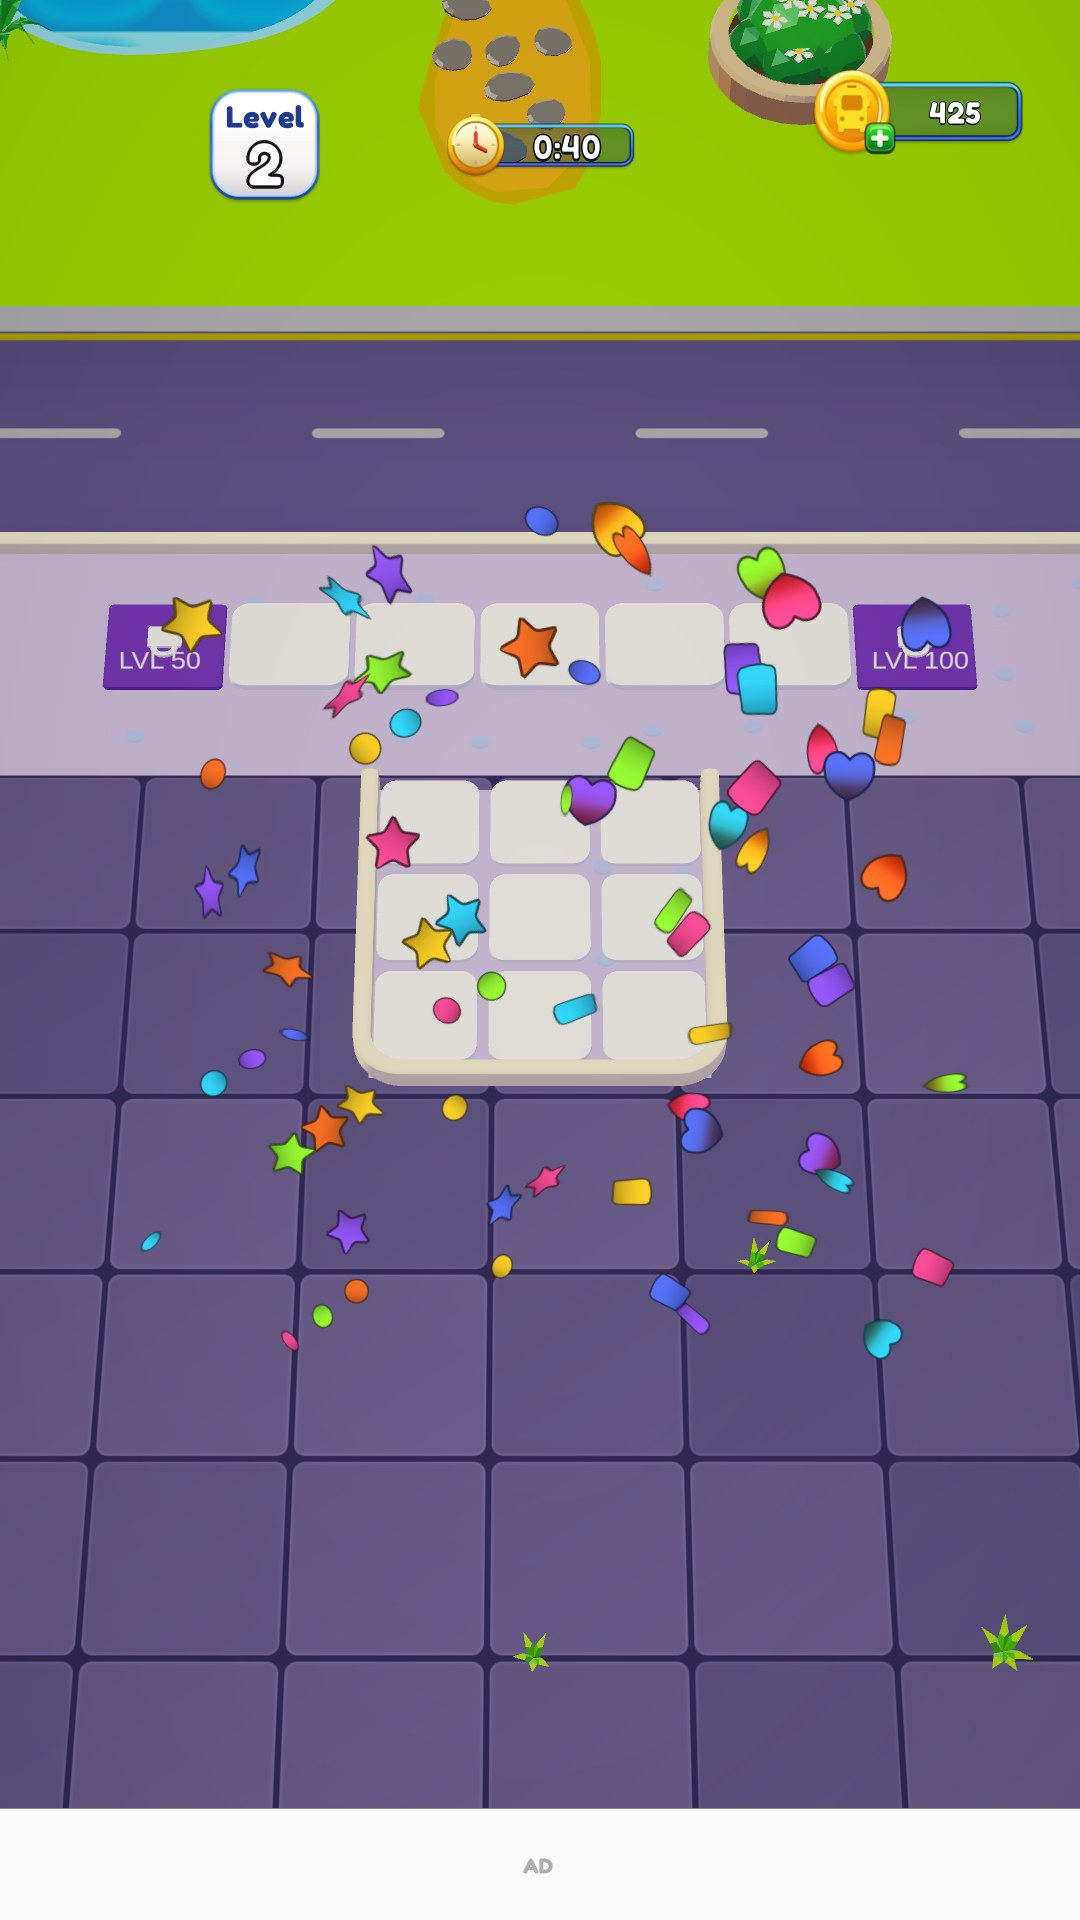
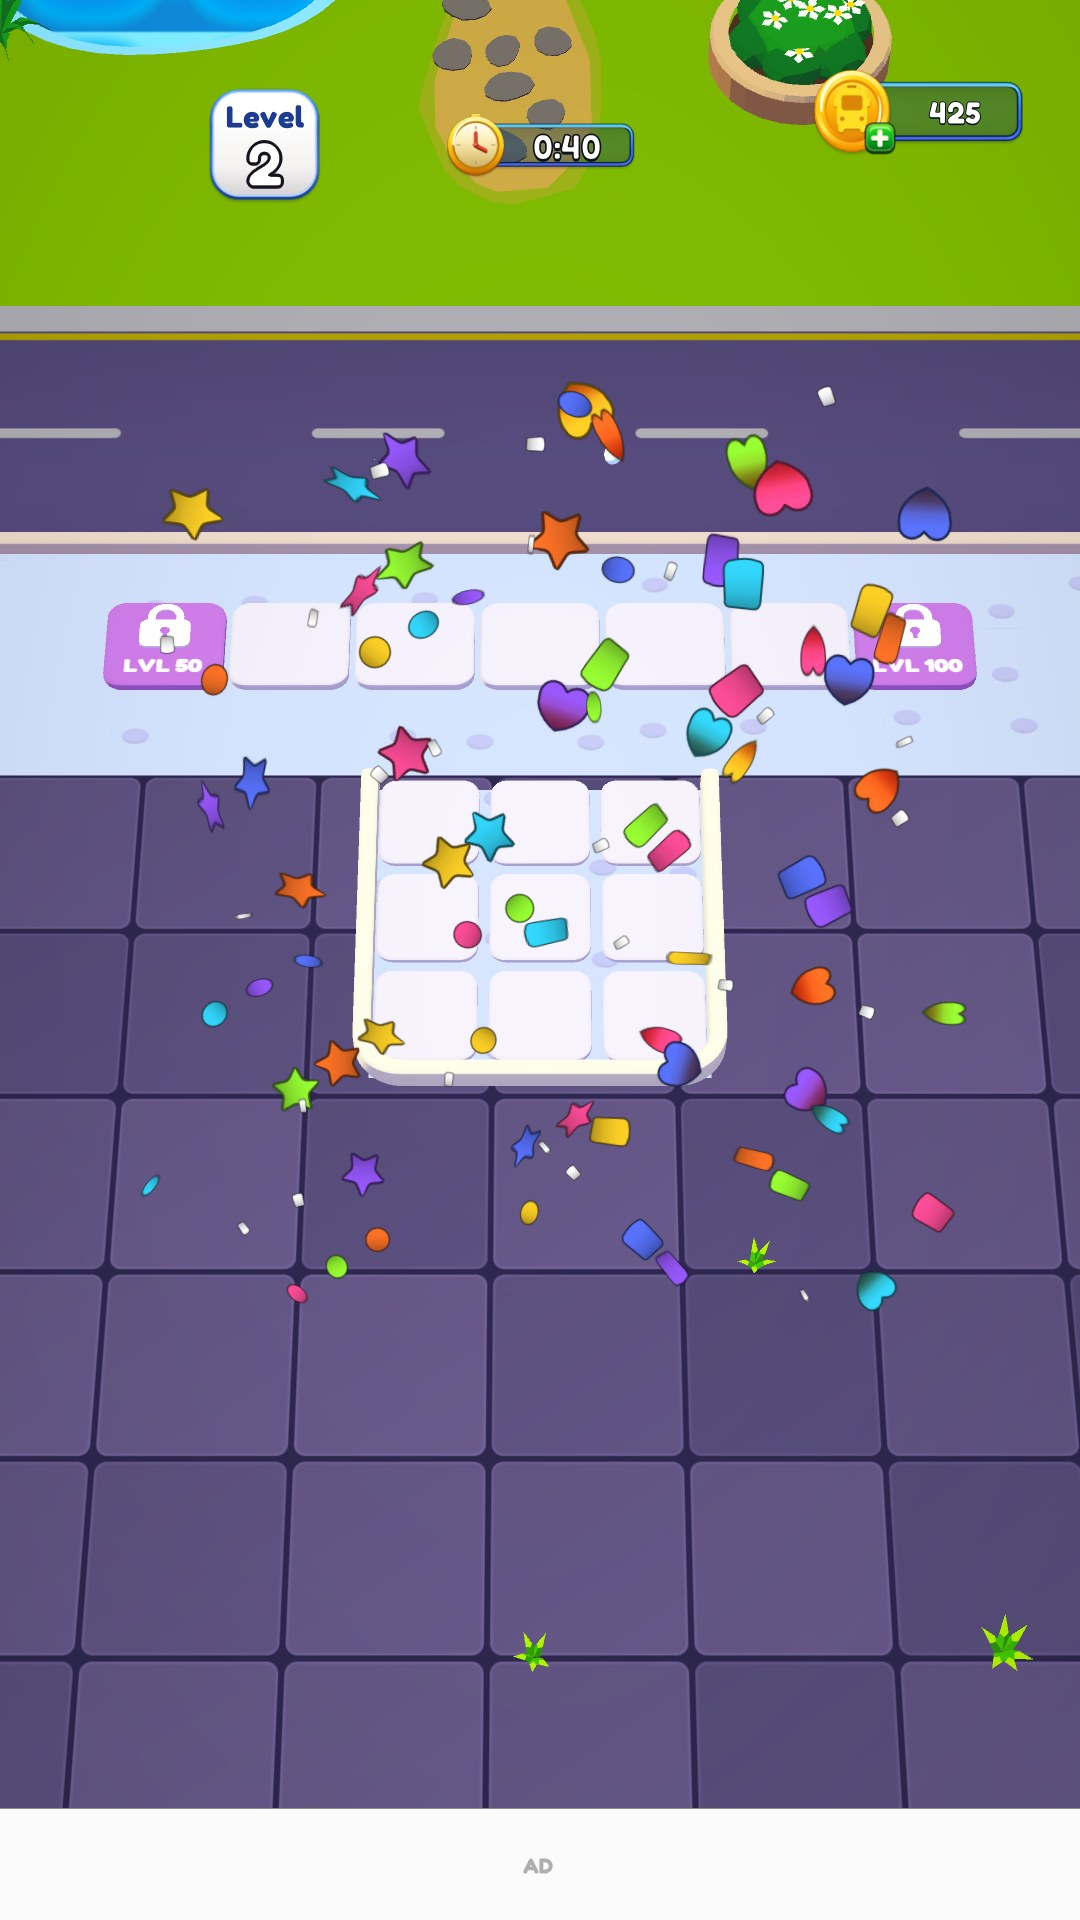
W3: konfeti referans zamanlaması (1 sn, mor katmanla kararır), hızlı patlama, beyaz kağıt kırıntıları

diff --git a/Assets/_BusJam/Scripts/UI/ToolkitGameUI.Results.cs b/Assets/_BusJam/Scripts/UI/ToolkitGameUI.Results.cs
@@ -25,7 +25,8 @@ namespace BusJam.UI
         private VisualElement buttonGlow, floatingHeart, failEffects, failHudHeart, resultBoosters;
         private Label rewardLabel, resultCoins, failReason, failLevel, noLivesCount, noLivesCountdown, failLives, failCountdown;
         private Button continueButton, retryButton, failClose;
-        private readonly VisualElement[] confetti = new VisualElement[72];
+        private readonly VisualElement[] confetti = new VisualElement[96];
+        private const int ColoredConfetti = 72; // the rest are small white paper flecks
         private readonly VisualElement[] twinkles = new VisualElement[8];
         private readonly VisualElement[] pileGlints = new VisualElement[4];
         private readonly VisualElement[] flyingCoins = new VisualElement[FlyingCoinCount];
@@ -74,8 +75,8 @@ namespace BusJam.UI
             string[] shapes = { "confetti-star", "confetti-heart", "confetti-disc", "confetti-piece" };
             for (int i = 0; i < confetti.Length; i++)
             {
-                confetti[i] = Effect(effects, shapes[i % shapes.Length]);
-                confetti[i].style.unityBackgroundImageTintColor = ConfettiColor(i);
+                confetti[i] = Effect(effects, i < ColoredConfetti ? shapes[i % shapes.Length] : "confetti-piece");
+                confetti[i].style.unityBackgroundImageTintColor = i < ColoredConfetti ? ConfettiColor(i) : Color.white;
             }
             for (int i = 0; i < FlyingCoinCount; i++) flyingCoins[i] = Effect(effects, "flying-coin");
             VisualElement sparkleLayer = root.Q("complete-sparkles");
@@ -237,7 +238,9 @@ namespace BusJam.UI
                 left = a.x + (b.x - a.x) * .12f; right = b.x - (b.x - a.x) * .12f; baseY = Mathf.Lerp(a.y, b.y, .35f);
                 resultBoosters.style.opacity = step.enabled ? 1 - Phase(time, step.start - .05f, .12f) : 1;
             }
-            const float drag = 4f;
+            const float drag = 5f;
+            // Pieces sit above the result overlay, so they dim with it like the reference (falling under the purple layer).
+            float dim = 1 - .85f * Step(ResultStepId.Overlay).Evaluate(time);
             for (int i = 0; i < confetti.Length; i++)
             {
                 float s = step.Phase(time, i % 6) * step.duration;
@@ -245,16 +248,16 @@ namespace BusJam.UI
                 float inward = i % 2 == 0 ? 1 : -1;
                 float decay = (1 - Mathf.Exp(-drag * s)) / drag;
                 // Up speed sets the apex (lower board to the road); fall speed tends to gravity / drag.
-                float up = height * (1.3f + seed2 * 2.3f), gravity = height * 1.5f;
-                float side = width * inward * (-.25f + seed3 * 1.9f);
+                float up = height * (1.6f + seed2 * 2.9f), gravity = height * 1.5f;
+                float side = width * inward * (-.3f + seed3 * 2.4f);
                 float x = (i % 2 == 0 ? left : right) + (seed - .5f) * width * .1f + side * decay
                     + Mathf.Sin(s * 9 + i) * width * .012f * Mathf.Min(1, s * 3);
                 float y = baseY - (up + gravity / drag) * decay + gravity / drag * s;
                 MoveElement(confetti[i], new Vector2(x, y));
                 bool live = step.enabled && time > step.start + i % 6 * step.stagger;
-                confetti[i].style.opacity = live ? 1 - Phase(s, step.duration * .75f, step.duration * .25f) : 0;
+                confetti[i].style.opacity = live ? dim * (1 - Phase(s, step.duration * .75f, step.duration * .25f)) : 0;
                 confetti[i].style.rotate = new Rotate(i * 37 + inward * (300 + seed * 500) * s);
-                float size = .95f + seed2 * .5f;
+                float size = (.95f + seed2 * .5f) * (i < ColoredConfetti ? 1 : .35f);
                 confetti[i].style.scale = new Scale(new Vector3(size * (.35f + .65f * Mathf.Abs(Mathf.Cos(s * (6 + seed * 8) + i))), size, 1));
             }
         }

diff --git a/Assets/_BusJam/Scripts/UI/ResultTimeline.cs b/Assets/_BusJam/Scripts/UI/ResultTimeline.cs
@@ -180,7 +180,7 @@ namespace BusJam.UI
             => new ResultStep { id = id, enabled = true, start = start, duration = duration, ease = ease, overshoot = 1.70158f, stagger = stagger };
         private static List<ResultStep> Defaults() => new List<ResultStep>
         {
-            S(ResultStepId.Confetti, .3f, .75f, stagger: .009f),
+            S(ResultStepId.Confetti, .3f, 1f, stagger: .009f),
             S(ResultStepId.Overlay, 1.05f, .2f), S(ResultStepId.CelebrationBus, 1.05f, 2.4f),
             S(ResultStepId.Title, 1.75f, .3f, ResultEase.OutBack), S(ResultStepId.Rays, 1.75f, .3f),
             S(ResultStepId.CoinPile, 2.5f, .3f, ResultEase.OutBack), S(ResultStepId.CoinCount, 2.5f, .9f, ResultEase.OutQuad),

diff --git a/Docs/Takip/W3.md b/Docs/Takip/W3.md
@@ -20,12 +20,17 @@ Durum: **bitti** (22.11 07:30)
 - Kutlama görsel kontrol (Play): otobüs ve yolcular toon (iki ton, Simple Lit parlaması yok), egzoz pufu gri. Renk bizde son otobüsün rengi (L2'de yeşil); ref'te son otobüs cyan iken kutlama otobüsü mor (aşağıda kalan farklar).
 - Sürücü: scratchpad `w3/run.py` + `drive.cs` (kilit al → derleme bekle → Console → PlayerPrefs yedek → 1080×1920 → Play → açgözlü L2 → kareler → geri yükle → kilit bırak).
 
+## Ek tur (Luma, 22.11 ~08:00)
+- ResultTimeline Confetti: süre .75 → 1.0 (asset + varsayılan); başlangıç .3 kaldı. .4 denendi (play4): ref'e göre ~0.15 sn geç kaldı. Önceki "erken" notu yanlıştı, yükselme hızından kaynaklanıyordu. Bu yüzden başlangıç yerine patlama hızlandırıldı (sürüklenme 5, yukarı/yana hız ×1.25).
+- Parçalar mor katmanla birlikte kararıyor (`dim = 1 - .85·Overlay`), +1.1'de katman altında hâlâ düşüyor (ref gibi).
+- 24 küçük beyaz kağıt kırıntısı aynı havuzda (toplam 96 eleman, ölçek .35).
+- Play (play5): +0.3'te grid ortası, +0.4'te yola ulaşıyor, ref ile aynı. `cmp_win_ref-ust_biz-alt.jpg` ve `after_win_+*.jpg` yenilendi. Console temiz.
+
 ## Kalan farklar
-- Konfeti bizde ~0.1 sn erken görünüyor ve +0.9'da bitiyor; ref'te parçalar mor katman girerken (+1.1) hâlâ düşüyor. Ayar: ResultTimeline Confetti start/duration (Asen'in asset değerleri .3/.75, dokunulmadı).
-- Ref konfetisinde ayrıca küçük beyaz kâğıt kırıntıları var; eklenmedi.
 - Kutlama otobüsü ref'te her levelde mor mu yoksa son otobüs rengi mi belirsiz (videoda tek örnek: son otobüs cyan, kutlama mor) → Asen karar versin.
 - Complete: ilerleme çubuğu, x2 butonu yok (kapsam dışı, R4).
 
 ## Commit'ler
 - `1f03628` konfeti + booster sönmesi + başlık süsleri (ToolkitGameUI.Results.cs, title_complete.svg)
-- takip commit: W3.md, W3-shots, R7-plan.md notu
+- `9fe58c8` takip: W3.md, W3-shots, R7-plan.md notu
+- ek tur: konfeti süresi/hızı, mor katmanla kararma, beyaz kırıntılar (bu commit)
